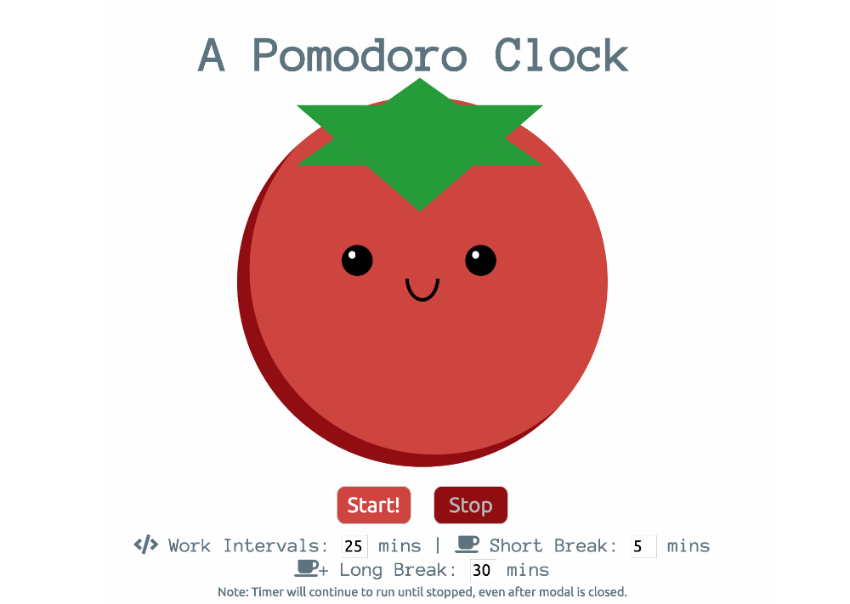
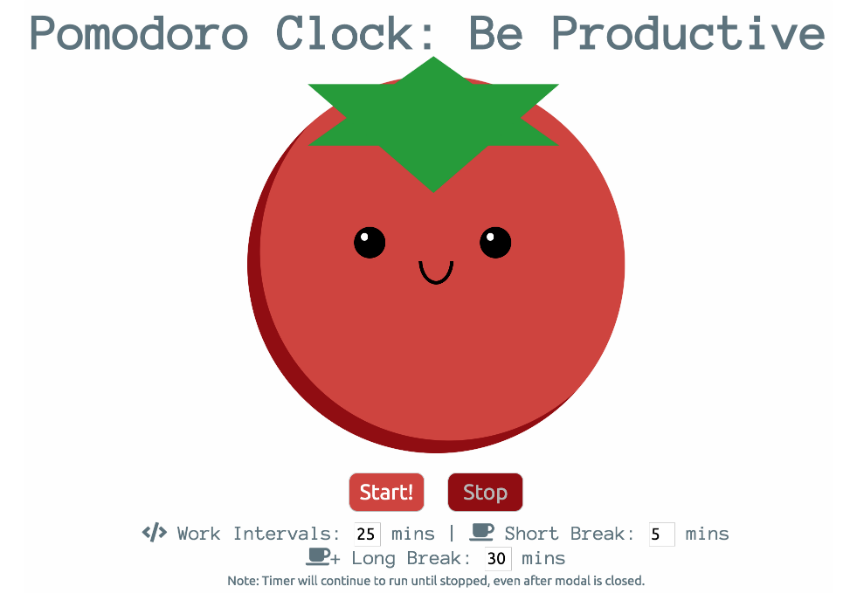
added contact me, updated pomodoro img, switched sides for contact me and about me

diff --git a/index.html b/index.html
@@ -32,10 +32,28 @@
 <div class="pink" id="about">
     <div class="container">
     <div class="row">
+        <div class="column three-fifths">
+            <div class="about">
+                <h2>About Me</h2>
+                <p><code><span class="focus">public class Lynette extends Developer {</span><br>
+                    &nbsp;&nbsp;&nbsp;&nbsp;&nbsp;private String<br>&nbsp;&nbsp;&nbsp;&nbsp;&nbsp;&nbsp;&nbsp;&nbsp;&nbsp;&nbsp;<span class="focus">currentlyLiving = "San Antonio, Texas";</span><br>
+                    &nbsp;&nbsp;&nbsp;&nbsp;&nbsp;private Boolean<br>&nbsp;&nbsp;&nbsp;&nbsp;&nbsp;&nbsp;&nbsp;&nbsp;&nbsp;&nbsp;<span class="focus">seekingEmployment = true;</span><br>
+                    &nbsp;&nbsp;&nbsp;&nbsp;&nbsp;private String[]<br>&nbsp;&nbsp;&nbsp;&nbsp;&nbsp;&nbsp;&nbsp;&nbsp;&nbsp;&nbsp;<span class="focus">education = {"Codeup", "Texas A&M International<br>&nbsp;&nbsp;&nbsp;&nbsp;&nbsp;&nbsp;&nbsp;&nbsp;&nbsp;&nbsp;&nbsp;&nbsp;&nbsp;&nbsp;&nbsp;&nbsp;&nbsp;&nbsp;&nbsp;&nbsp;&nbsp;&nbsp;University"};</span><br>
+                    &nbsp;&nbsp;&nbsp;&nbsp;&nbsp;private String<br>&nbsp;&nbsp;&nbsp;&nbsp;&nbsp;&nbsp;&nbsp;&nbsp;&nbsp;&nbsp;<span class="focus">major = "Mathematics";</span><br>
+                    &nbsp;&nbsp;&nbsp;&nbsp;&nbsp;private String[]<br>&nbsp;&nbsp;&nbsp;&nbsp;&nbsp;&nbsp;&nbsp;&nbsp;&nbsp;&nbsp;<span class="focus">skills = {"HTML", "CSS", "Javascript","jQuery",<br>&nbsp;&nbsp;&nbsp;&nbsp;&nbsp;&nbsp;&nbsp;&nbsp;&nbsp;&nbsp;&nbsp;&nbsp;&nbsp;&nbsp;&nbsp;&nbsp;&nbsp;&nbsp;&nbsp;"Java", "Spring"};</span><br>
+                    &nbsp;&nbsp;&nbsp;&nbsp;&nbsp;private String[]<br>&nbsp;&nbsp;&nbsp;&nbsp;&nbsp;&nbsp;&nbsp;&nbsp;&nbsp;&nbsp;<span class="focus">interests = {"Coding", "Designing", "Knitting",<br>&nbsp;&nbsp;&nbsp;&nbsp;&nbsp;&nbsp;&nbsp;&nbsp;&nbsp;&nbsp;&nbsp;&nbsp;&nbsp;&nbsp;&nbsp;&nbsp;&nbsp;&nbsp;&nbsp;&nbsp;&nbsp;&nbsp;"Crocheting", "Harry Potter", "Disney"};</span><br>
+                    <span class="focus">}</span></code></p>
+            </div>
+        </div>
         <div class="column two-fifths">
             <div class="computer">
                 <div class="outerScreen">
                     <div class="screen">
+                        <div class="compEyes">
+                            <div class="eye leftEye"></div>
+                            <div class="eye rightEye"></div>
+                            <div class="smile"></div>
+                        </div>
                         <div class="heading">
                             <h1>Hello World!</h1>
                         </div>
@@ -86,20 +104,6 @@
                 </div>
             </div>
         </div>
-        <div class="column three-fifths">
-            <div class="about">
-                <h2>About Me</h2>
-                <p><code><span class="focus">public class Lynette extends Developer {</span><br>
-                    &nbsp;&nbsp;&nbsp;&nbsp;&nbsp;private String<br>&nbsp;&nbsp;&nbsp;&nbsp;&nbsp;&nbsp;&nbsp;&nbsp;&nbsp;&nbsp;<span class="focus">currentlyLiving = "San Antonio, Texas";</span><br>
-                    &nbsp;&nbsp;&nbsp;&nbsp;&nbsp;private Boolean<br>&nbsp;&nbsp;&nbsp;&nbsp;&nbsp;&nbsp;&nbsp;&nbsp;&nbsp;&nbsp;<span class="focus">seekingEmployment = true;</span><br>
-                    &nbsp;&nbsp;&nbsp;&nbsp;&nbsp;private String[]<br>&nbsp;&nbsp;&nbsp;&nbsp;&nbsp;&nbsp;&nbsp;&nbsp;&nbsp;&nbsp;<span class="focus">education = {"Codeup", "Texas A&M International<br>&nbsp;&nbsp;&nbsp;&nbsp;&nbsp;&nbsp;&nbsp;&nbsp;&nbsp;&nbsp;&nbsp;&nbsp;&nbsp;&nbsp;&nbsp;&nbsp;&nbsp;&nbsp;&nbsp;&nbsp;&nbsp;&nbsp;University"};</span><br>
-                    &nbsp;&nbsp;&nbsp;&nbsp;&nbsp;private String<br>&nbsp;&nbsp;&nbsp;&nbsp;&nbsp;&nbsp;&nbsp;&nbsp;&nbsp;&nbsp;<span class="focus">major = "Mathematics";</span><br>
-                    &nbsp;&nbsp;&nbsp;&nbsp;&nbsp;private String[]<br>&nbsp;&nbsp;&nbsp;&nbsp;&nbsp;&nbsp;&nbsp;&nbsp;&nbsp;&nbsp;<span class="focus">skills = {"HTML", "CSS", "Javascript","jQuery",<br>&nbsp;&nbsp;&nbsp;&nbsp;&nbsp;&nbsp;&nbsp;&nbsp;&nbsp;&nbsp;&nbsp;&nbsp;&nbsp;&nbsp;&nbsp;&nbsp;&nbsp;&nbsp;&nbsp;"Java", "Spring"};</span><br>
-                    &nbsp;&nbsp;&nbsp;&nbsp;&nbsp;private String[]<br>&nbsp;&nbsp;&nbsp;&nbsp;&nbsp;&nbsp;&nbsp;&nbsp;&nbsp;&nbsp;<span class="focus">interests = {"Coding", "Designing", "Knitting",<br>&nbsp;&nbsp;&nbsp;&nbsp;&nbsp;&nbsp;&nbsp;&nbsp;&nbsp;&nbsp;&nbsp;&nbsp;&nbsp;&nbsp;&nbsp;&nbsp;&nbsp;&nbsp;&nbsp;&nbsp;&nbsp;&nbsp;"Crocheting", "Harry Potter", "Disney"};</span><br>
-                    &nbsp;&nbsp;&nbsp;&nbsp;&nbsp;public int liveTheDevLife(int hoursCoding) <span class="focus">{<br>&nbsp;&nbsp;&nbsp;&nbsp;&nbsp;&nbsp;&nbsp;&nbsp;&nbsp;&nbsp;if(hoursCoding == 18){<br>&nbsp;&nbsp;&nbsp;&nbsp;&nbsp;&nbsp;&nbsp;&nbsp;&nbsp;&nbsp;&nbsp;&nbsp;&nbsp;&nbsp;&nbsp;sleep();<br>&nbsp;&nbsp;&nbsp;&nbsp;&nbsp;&nbsp;&nbsp;&nbsp;&nbsp;&nbsp;&nbsp;&nbsp;&nbsp;&nbsp;&nbsp;return liveTheDevLife(0);<br>&nbsp;&nbsp;&nbsp;&nbsp;&nbsp;&nbsp;&nbsp;&nbsp;&nbsp;&nbsp;}<br>&nbsp;&nbsp;&nbsp;&nbsp;&nbsp;&nbsp;&nbsp;&nbsp;&nbsp;&nbsp;writeCode();</span> //numberOfBugs = 1;<br>&nbsp;&nbsp;&nbsp;&nbsp;&nbsp;&nbsp;&nbsp;&nbsp;&nbsp;&nbsp;<span class="focus">fixBug();</span> //numberOfBugs = 2;<br>&nbsp;&nbsp;&nbsp;&nbsp;&nbsp;&nbsp;&nbsp;&nbsp;&nbsp;&nbsp;<span class="focus">questionCareer();<br>&nbsp;&nbsp;&nbsp;&nbsp;&nbsp;&nbsp;&nbsp;&nbsp;&nbsp;&nbsp;fixTypo();</span> //numberOfBugs = 0;<br>&nbsp;&nbsp;&nbsp;&nbsp;&nbsp;&nbsp;&nbsp;&nbsp;&nbsp;&nbsp;<span class="focus">return liveTheDevLife(hoursCoding + 2);<br>&nbsp;&nbsp;&nbsp;&nbsp;&nbsp;}<br></span>
-                <span class="focus">}</span></code></p>
-            </div>
-        </div>
     </div>
     </div>
 </div>
@@ -107,7 +111,7 @@
     <div class="container">
         <div class="row">
             <div class="three-fourths column offset">
-                <h2>Resume</h2>
+                <h2>My Resume</h2>
                 <div class="paper">
                     <div class="leftColumn three-eighths column">
                         <div class="professionalImg">
@@ -197,17 +201,17 @@
 <div class="gray" id="projects">
     <div class="container projects">
         <div class="row">
-            <h2>Projects</h2>
+            <h2>Project Portfolio</h2>
             <div class="one-third column">
                 <img src="img/pomodoro-img.png" alt="pomodoro-clock" id="pomodoroImg">
                 <h3>Pomodoro Clock: Be Productive</h3>
-                <p>The Pomodoro Technique is a great time management method so after much testing and waiting, finishing this project brought me a rewarding result I myself can use for future projects.</p>
+                <p>After much testing and waiting, finishing this project brought me a rewarding result I myself can use for time management in the future. I learned new techniques for timers, animations, and disabling buttons.</p>
                 <p><span class="tag">HTML</span><span class="tag">CSS</span><span class="tag">Javascript</span><span class="tag">JQuery</span></p>
             </div>
             <div class="one-third column">
                 <img src="img/simon-img.png" alt="simon-says" id="simonImg">
                 <h3>Simon Says!</h3>
-                <p>This old classic game was a fun project with some challenging aspects that required me to learn more about Javascript's asynchronous component.</p>
+                <p>This old classic game was a fun project with some challenging aspects such as only displaying one color at a time and finding a work around. I was also able to learn CSS animation steps for a fun game over scene.</p>
                 <p><span class="tag">HTML</span><span class="tag">CSS</span><span class="tag">Javascript</span><span class="tag">JQuery</span></p>
             </div>
             <div class="one-third column">
@@ -215,14 +219,6 @@
                 <h3>Weather Project</h3>
                 <p>Using jquery, javascript, and css, I made a simon says game.</p>
                 <p><span class="tag">HTML</span><span class="tag">CSS</span><span class="tag">Javascript</span><span class="tag">JQuery</span><span class="tag">AJAX</span></p>
-            </div>
-        </div>
-        <div class="row">
-            <div class="one-third column">
-                <img src="http://via.placeholder.com/350x250" alt="">
-                <h3>Weather Project</h3>
-                <p>Using ajax requests and jquery, the weather project </p>
-                <p><span class="tag">HTML</span><span class="tag">CSS</span><span class="tag">Javascript</span><span class="tag">API</span><span class="tag">JQuery</span><span class="tag">AJAX</span><span class="tag">JSON</span></p>
             </div>
         </div>
     </div>
@@ -291,11 +287,16 @@
 <div class="contact" id="contact">
     <div class="container">
         <div class="row">
-            <div class="one-half column">
-            <h2>Contact Me</h2>
-            </div>
-            <div class="one-half column">
+            <div class="two-fifths column">
                 <img src="http://via.placeholder.com/500x500" alt="">
+            </div>
+            <div class="three-fifths column">
+                <h2>Contact Me</h2>
+                <div class="contactIcons">
+                    <a href="mailto:Lynette.N.Barrera@gmail.com" target="_blank"><i class="fas fa-envelope"></i><br>Email me at Lynette.N.Barrera@gmail.com</a>
+                    <hr><a href="https://www.linkedin.com/in/lynette-barrera/" target ="_blank"><i class="fab fa-linkedin"></i><br>Connect with me on LinkedIn</a>
+                    <hr><a href="https://github.com/LynetteNB" target="_blank"><i class="fab fa-github-square"></i><br>Check out my code on GitHub</a>
+                </div>
             </div>
         </div>
     </div>

diff --git a/css/style-it.css b/css/style-it.css
@@ -140,7 +140,7 @@ p {
     color: #64B6AC;
     padding: 1.5vw;
     border-radius: 10px;
-    height: 55vw;
+    height: 33.5vw;
     line-height: 2vw;
 }
 .focus{
@@ -226,6 +226,7 @@ p {
 .gray{
     background: #818183;
     color: white;
+    height: 53vw;
 }
 .projects img {
     width: 100%;
@@ -245,11 +246,34 @@ p {
 }
 .contact {
     background: #64B6AC;
+    color: white;
 }
 .contact img{
     border-radius: 50%;
-    margin: 3.5vw 0;
-    width: 100%;
+    margin: 0;
+    width: 90%;
+}
+.contact a{
+    display: block;
+    font-size: 1.75vw;
+    color: white;
+    text-decoration: none;
+}
+.contact i{
+    font-size: 2.5vw;
+}
+.contact a{
+    margin: 5% 5%;
+}
+.contact a:hover{
+    color: #C0FDFB;
+}
+.contact a:active{
+    color: #FBD5DB;
+}
+hr {
+    width: 25%;
+    border: 1px solid white;
 }
 .modal{
     position: fixed;
@@ -505,6 +529,7 @@ p {
     margin: 1vw;
     font-family: 'VT323', monospace;
     color: #5D737E;
+    background: white;
 }
 #simonContent button:hover {
     background: #5D737E;

diff --git a/js/make-it-work.js b/js/make-it-work.js
@@ -3,6 +3,7 @@ $('.name').hide();
 $('code').hide();
 $('.paper p, .paper dl, .paper h4').hide();
 $('.projects .column').hide();
+$('.contactIcons').hide();
 
 $(window).on("scroll", () => {
     if($('.banner-inner h1').visible(true) === false) {
@@ -19,6 +20,9 @@ $(window).on("scroll", () => {
     }
     if($('.gray .row').visible()){
         $('.projects .column').slideDown(1500);
+    }
+    if($('.contact h2').visible(true)) {
+        $('.contactIcons').slideDown(1500);
     }
 });
 

diff --git a/css/css-computer.css b/css/css-computer.css
@@ -2,7 +2,7 @@
 
 .computer {
     width: 100%;
-    margin-top: 50%;
+    margin-top: 25%;
 }
 .outerScreen{
     width: 100%;
@@ -22,10 +22,15 @@
     top: 1.11vw;
     left: 3.33%;
 }
+.compEyes{
+    position: absolute;
+    top: 11vw;
+    left: 1vw;
+}
 .heading {
     width: 76.67%;
     margin: 0 auto;
-    padding: 2.777vw 0;
+    padding: 6.777vw 0;
 }
 .type{
     animation: typing 2s steps(13, end), blinking .9s step-end infinite;
